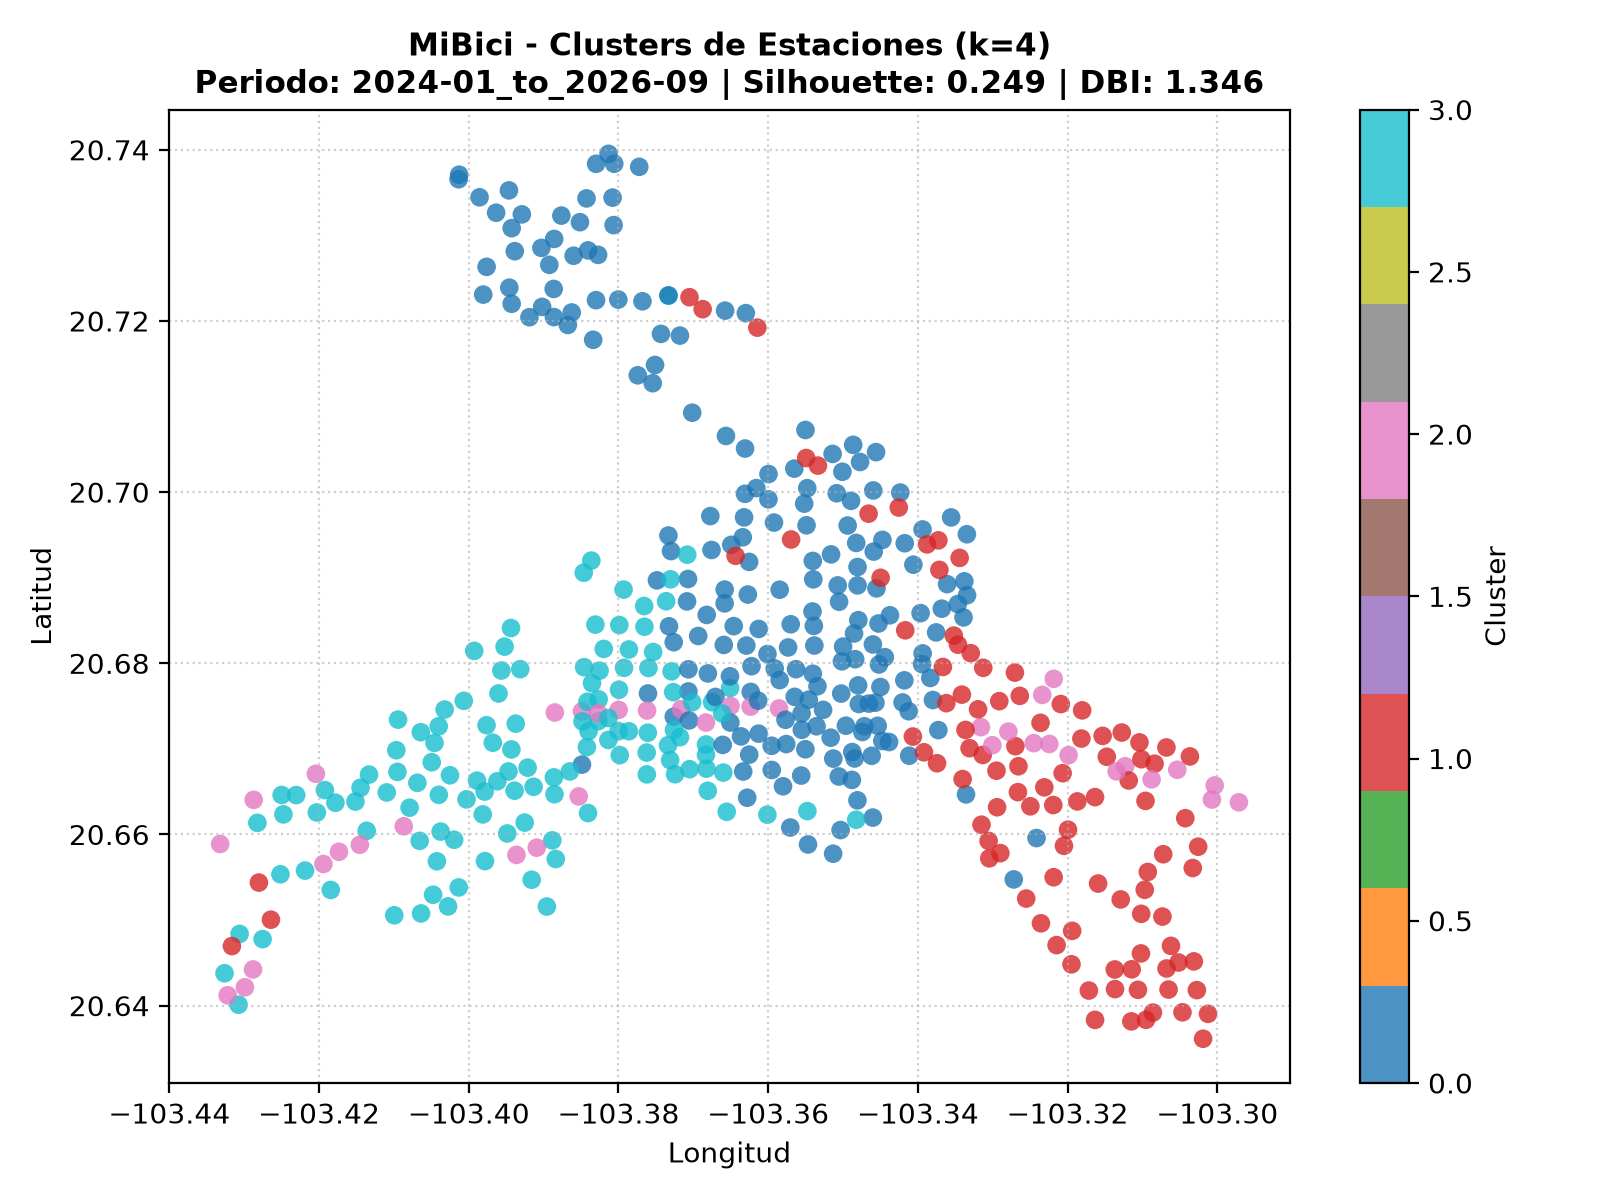
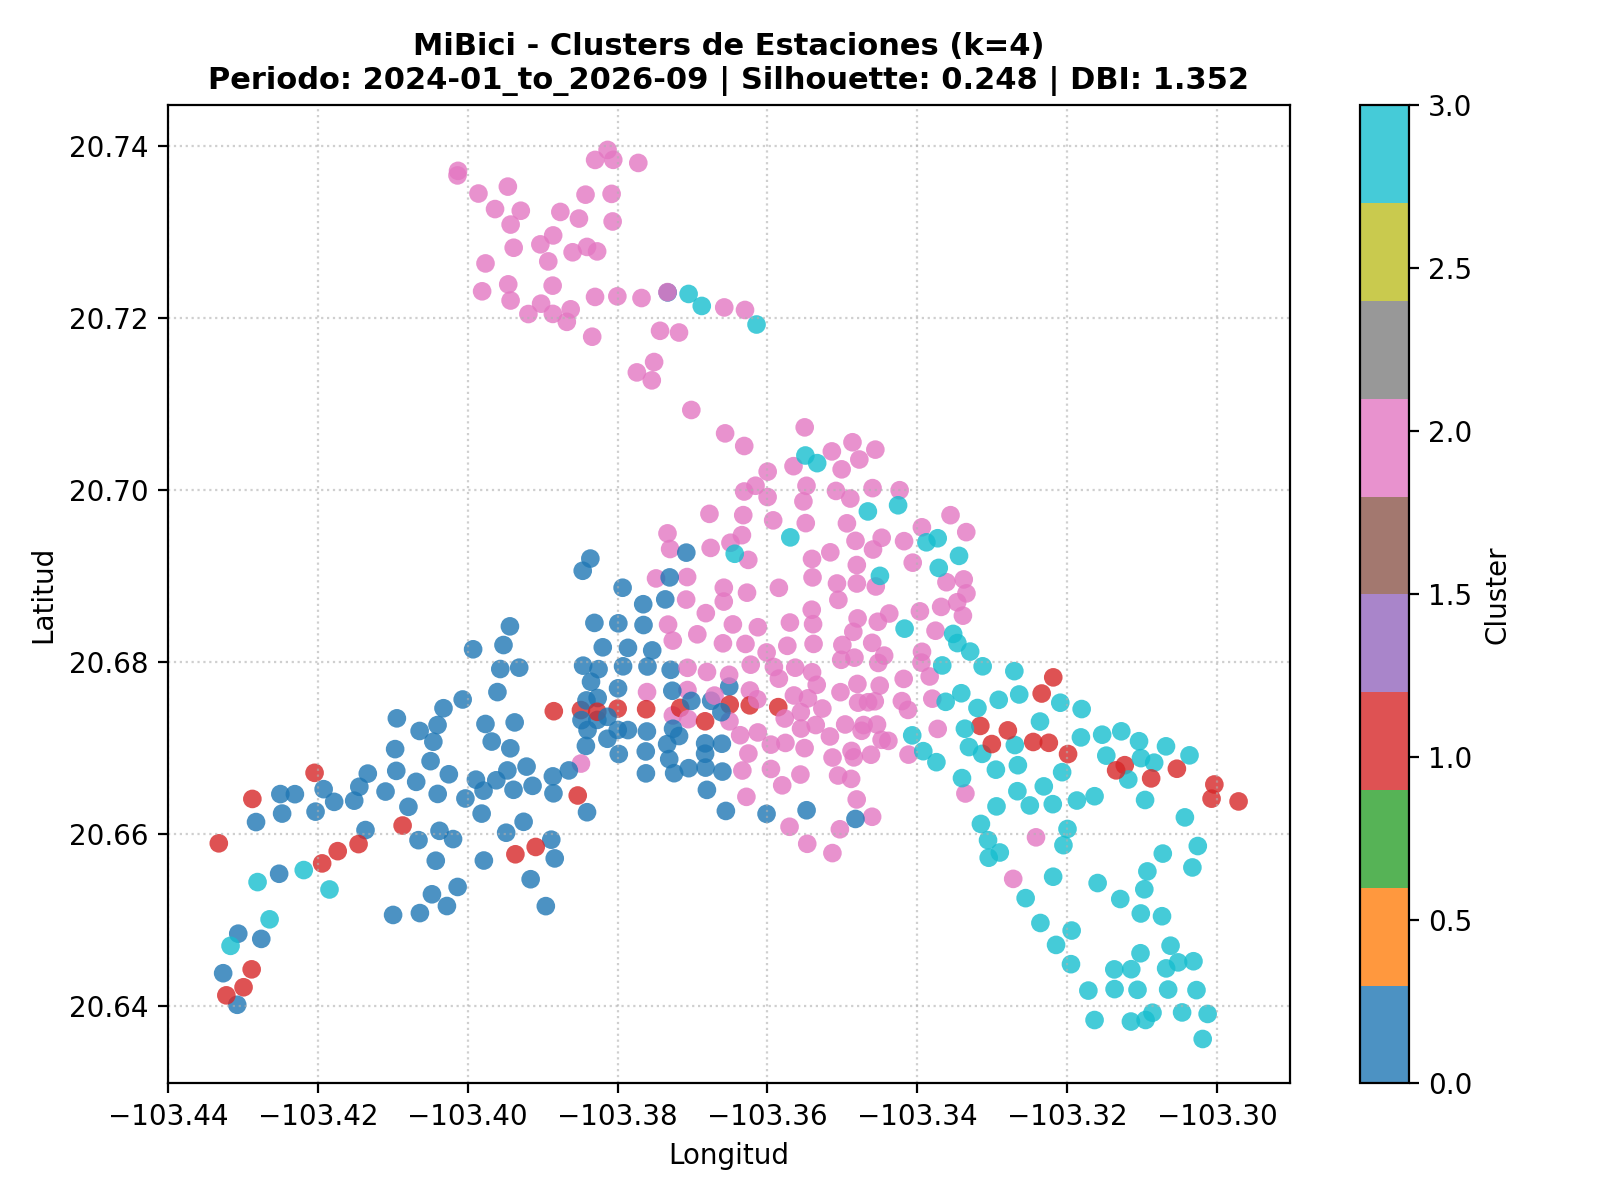
Fixes: adds diagrama and figures (#10)
* fix: unificar pipeline y registro de experimentos en MLflow

* docs: actualizar documentación del experimento unificado

* docs: actualizar documentación del experimento unificado

* docs: actualizar documentación del experimento unificado

* Renombrar notebook

* fix: readme

---------

diff --git a/references/arquitectura_sistema.md b/references/arquitectura_sistema.md
@@ -1,0 +1,29 @@
+# Arquitectura del Sistema MLOps — Proyecto MiBici (Equipo 51)
+---
+
+```mermaid
+flowchart LR
+    A[Portal de datos abiertos MiBici] --> B[dataset.py: ingesta y validación]
+    B --> C[CSV en data/raw]
+    B --> D[33 Parquet de viajes y 1 de nomenclatura]
+    B --> E[data_manifest.json]
+    D --> F[train.py experimento-completo]
+    F --> G1[P1: tabla estación-hora y características históricas]
+    F --> G2[P2: features.py p2 y dataset_p2.parquet]
+    F --> G3[P3: perfil agregado por estación]
+    G1 --> H1[Referencia estacional y CatBoost]
+    G2 --> H2[Dummy estratificado y regresión logística]
+    G3 --> H3[K-Means]
+    E --> I[Versión común de datos]
+    I --> H1
+    I --> H2
+    I --> H3
+    H1 --> J[Experimento MLflow mibici-equipo51]
+    H2 --> J
+    H3 --> J
+    J --> K[Parámetros, métricas, etiquetas y artefactos]
+```
+
+---
+
+
